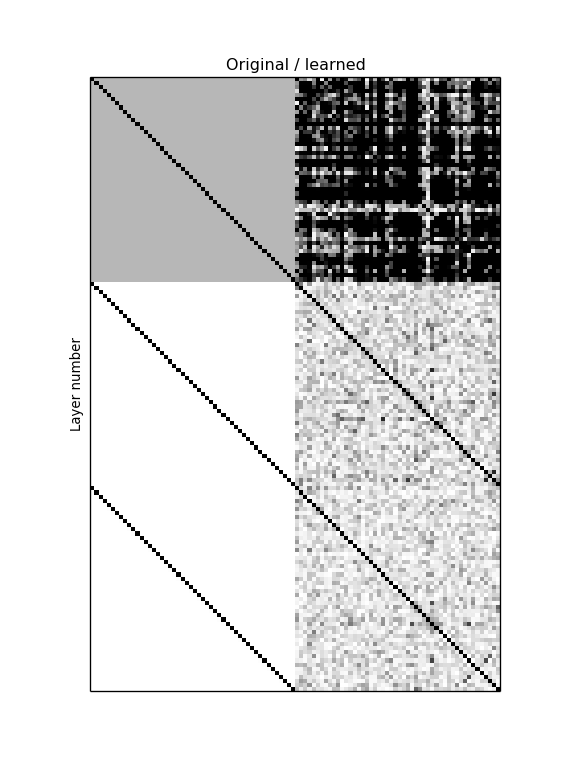
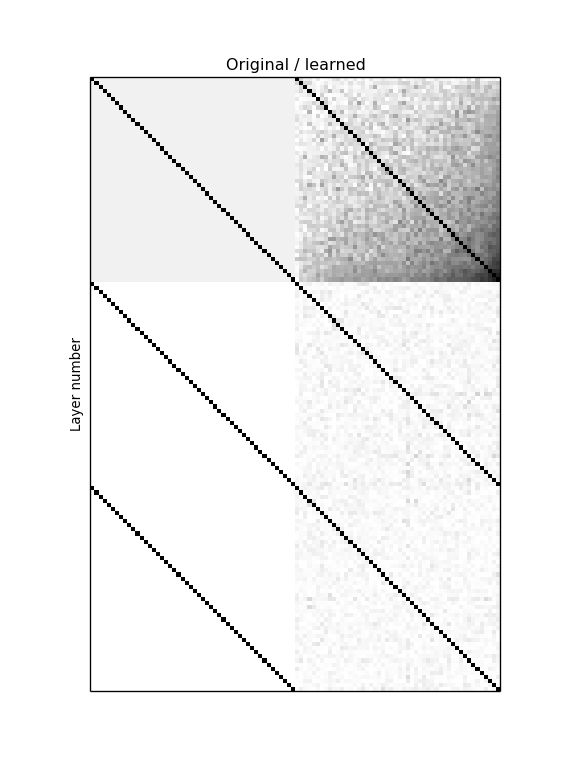
Covar matrices now sorted by row/col sum

Changed region(s): [[0.1562, 0.0938, 0.875, 0.9062]]

diff --git a/experiments/Feb_1_learning_alphabet_corr/5/experiment.py b/experiments/Feb_1_learning_alphabet_corr/5/experiment.py
@@ -165,21 +165,23 @@ def plot():
     covar_baseline = dictmap(np.abs, covar_baseline)
     covar_learned  = dictmap(np.abs, covar_learned)
 
-    # Blockify:
-    npr.seed(3)
-    perm = find_blockifying_perm(covar_learned[0], 1, 3)
-    show_all_alphabets(perm)
-    print perm
+    # # Blockify:
+    # npr.seed(1)
+    # perm = find_blockifying_perm(covar_learned[0], 10, 3)
+
+    # Sort by magnitude
+    perm = np.argsort(np.sum(covar_learned[0], axis=0))
+
     def permute_array(A):
         return A[np.ix_(perm, perm)]
-
+    show_all_alphabets(perm)
     covar_baseline = dictmap(permute_array, covar_baseline)
     covar_learned  = dictmap(permute_array, covar_learned)
 
     all_baseline = np.concatenate([covar_baseline[i] for i in range(N_layers)], axis=0)
     all_learned  = np.concatenate([covar_learned[i]  for i in range(N_layers)], axis=0)
     all_img = np.concatenate((all_baseline, all_learned), axis=1)
-    all_img = np.minimum(np.maximum(all_img, 0.0), 0.2)
+    all_img = np.minimum(np.maximum(all_img, 0.0), 1)
     fig = plt.figure(0)
     fig.clf()
     fig.set_size_inches((6,8))
@@ -192,7 +194,7 @@ def plot():
     plt.savefig('learned_covar_permuted.png')
 
 if __name__ == '__main__':
-    results = run()
-    with open('results.pkl', 'w') as f:
-        pickle.dump(results, f, 1)
+    # results = run()
+    # with open('results.pkl', 'w') as f:
+    #     pickle.dump(results, f, 1)
     plot()
